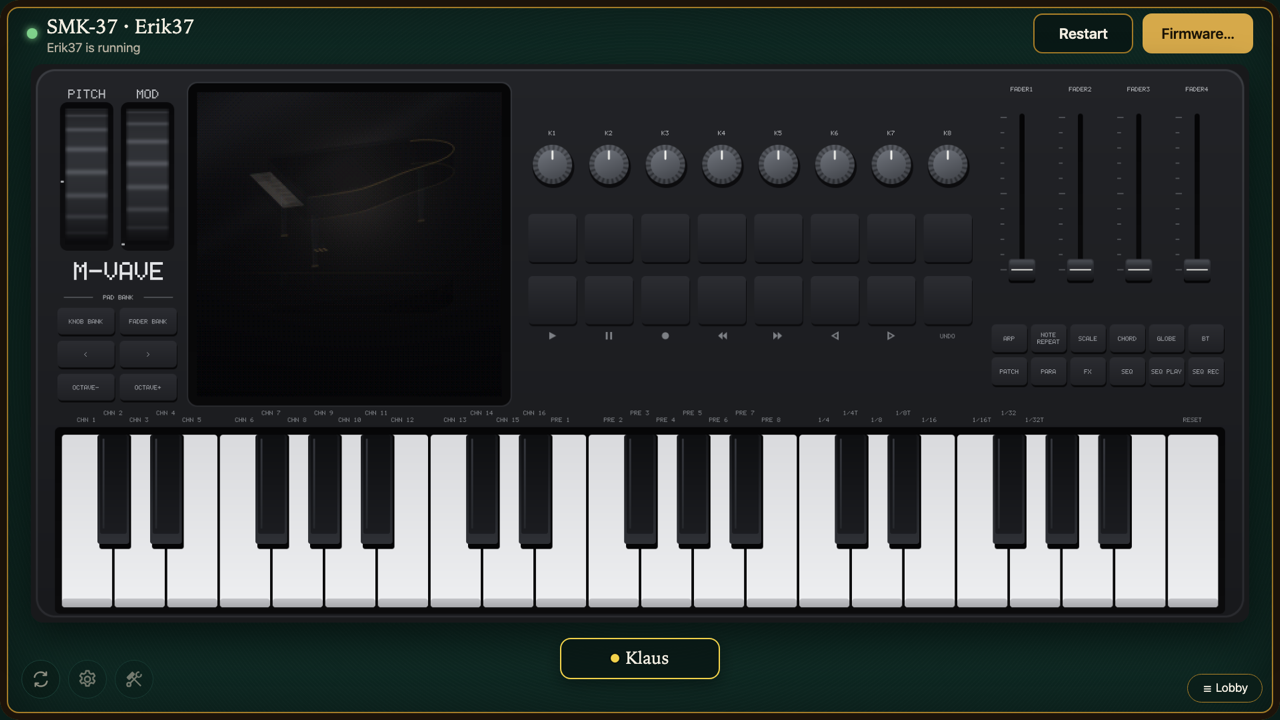
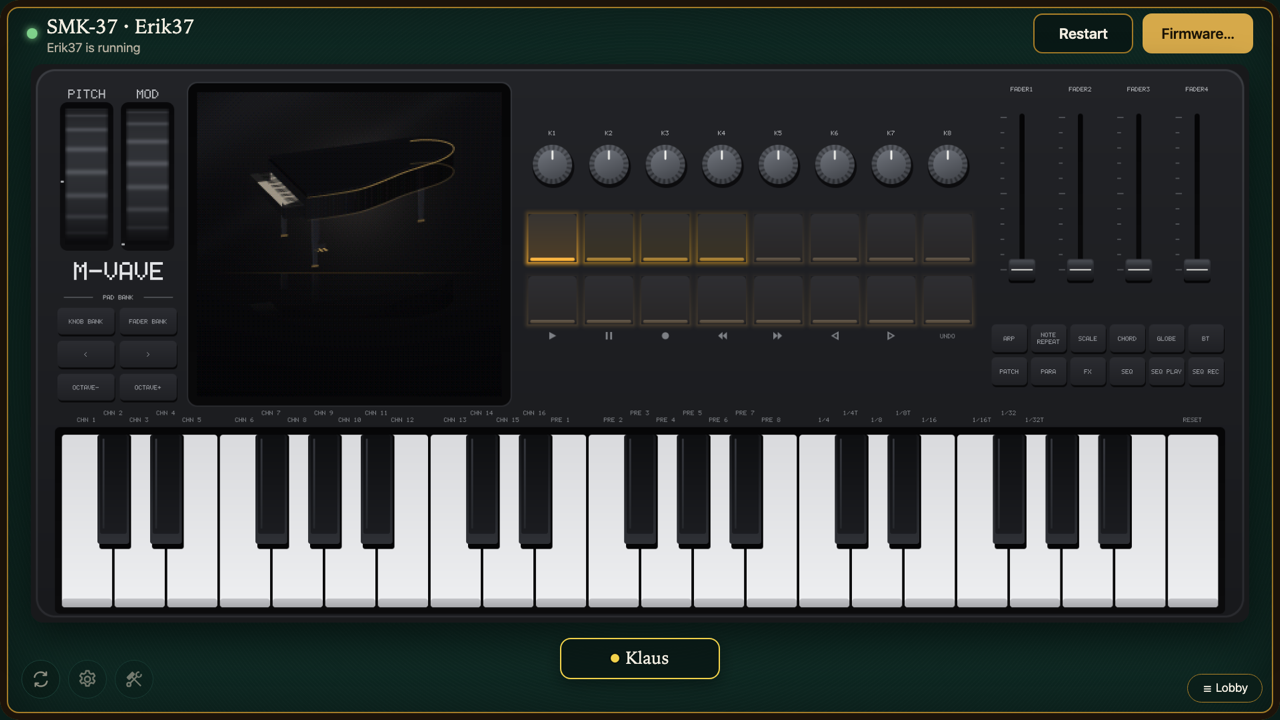
Firmware window: the device tabs switch the board at once, framed green (#2)
The FM-1 and SMK-37 tabs in the board's firmware window switch the board at once, as the phone's buttons do, framed in
the platform's green (E-011, game version 2026.11.12.6). README: the SMK-37 and the phone in pictures, and a link to
games.skylar.technology.

Claude-Session: https://claude.ai/code/session_01Ew5DovcRB7XVinPwRQDqJa

Changed region(s): [[0.4062, 0.3056, 0.75, 0.3972], [0.4062, 0.4278, 0.75, 0.4583], [0.1875, 0.2444, 0.25, 0.275]]

diff --git a/games/fm1-synth/board.js b/games/fm1-synth/board.js
@@ -185,9 +185,6 @@ export function mount(root, ctx) {
     if (device !== (pickerDevice ?? view?.device ?? "fm1")) return; // another tab was tapped meanwhile
     const here = device === view?.device;
     $(".fs-sheet-title").textContent = `Firmwares for the ${deviceName(device)} (${catalog.firmwares.length})`;
-    $(".fs-sheet-sub").textContent = here
-      ? "Tap one to play it. It is downloaded from its author's site."
-      : `Tap one to switch the board to the ${deviceName(device)} and play it. It is downloaded from its author's site.`;
     $(".fs-list").innerHTML = catalog.firmwares
       .map((f) => `<button type="button" class="fs-card ${here && view?.firmware === f.id ? "on" : ""}" data-id="${esc(f.id)}">
         <div class="fs-card-head"><b>${esc(f.name)}</b><span class="muted">${esc(f.version ?? "")}</span></div>
@@ -215,12 +212,18 @@ export function mount(root, ctx) {
   picker.addEventListener("click", (e) => {
     if (e.target === picker) picker.hidden = true;
   });
+  // A tab switches the board to that device at once, on its first firmware, as the phone's buttons do (E-011); the
+  // window stays open on that device's list, to pick another.
   picker.querySelector(".fs-tabs").addEventListener("click", (e) => {
     const tab = e.target.closest(".fs-tab");
-    if (!tab || tab.dataset.device === pickerDevice) return;
-    pickerDevice = tab.dataset.device;
-    $(".fs-list").scrollTop = 0;
-    renderPicker();
+    if (!tab) return;
+    const device = tab.dataset.device;
+    if (device !== pickerDevice) {
+      pickerDevice = device;
+      $(".fs-list").scrollTop = 0;
+      renderPicker();
+    }
+    setDevice(device);
   });
   $(".fs-list").addEventListener("click", async (e) => {
     const card = e.target.closest(".fs-card");
@@ -287,7 +290,14 @@ export function mount(root, ctx) {
           if (f) ctx.act(playerSeat(), "firmware", { id: f.id, name: f.name, device: c.device });
           return;
         }
-        if (picker.hidden === false) renderPicker();
+        if (picker.hidden === false) {
+          // the window shows the device the board has, also when the phone switched it meanwhile
+          if (pickerDevice !== view.device) {
+            pickerDevice = view.device;
+            $(".fs-list").scrollTop = 0;
+          }
+          renderPicker();
+        }
         boot();
       });
     },

diff --git a/games/fm1-synth/board.css b/games/fm1-synth/board.css
@@ -44,10 +44,10 @@
 .fs-sheet-sub { font-size: 20px; margin-top: 4px; }
 .fs-sheet-head > div:first-child { flex: 1; min-width: 0; }
 /* FM-1 | SMK-37: which device's firmwares the picker lists */
-.fs-tabs { display: flex; flex: none; border-radius: 14px; overflow: hidden; border: 2px solid var(--brass-deep, #8a6216); }
+.fs-tabs { display: flex; flex: none; border-radius: 14px; overflow: hidden; border: 2px solid var(--jade, #5fbf8f); }
 .fs-tab { min-height: 60px; min-width: 150px; padding: 0 24px; font: 600 22px system-ui, sans-serif; color: var(--ink);
   background: rgba(8, 22, 19, 0.82); border: 0; cursor: pointer; touch-action: manipulation; }
-.fs-tab + .fs-tab { border-left: 2px solid var(--brass-deep, #8a6216); }
+.fs-tab + .fs-tab { border-left: 2px solid var(--jade, #5fbf8f); }
 .fs-tab[aria-selected="true"] { background: var(--brass, #c8962f); color: #1b1407; }
 .fs-list { flex: 1; overflow-y: auto; overscroll-behavior: contain; touch-action: pan-y; padding: 4px 30px 30px;
   display: grid; grid-template-columns: repeat(4, 1fr); gap: 16px; align-content: start; }

diff --git a/scripts/e2e/fm1_synth.py b/scripts/e2e/fm1_synth.py
@@ -7,7 +7,7 @@ Checks on the way:
   - the board boots the FM-1's first firmware (downloaded from its author's site, as on a table) and says it runs, on
     the board and on the phone; the panel is drawn; a touch on a key lights it;
   - the phone layout rules of games-service (D-065);
-  - the firmware window lists both devices; picking from the SMK-37 tab switches the board to the SMK-37 (E-006);
+  - the firmware window's SMK-37 tab switches the board to the SMK-37, on its first firmware (E-006, E-011);
   - the phone switches the device back; facing north turns the bar, the panel and the seat plate in place (E-007,
     E-008) without moving them;
   - Finish ends the game with a summary naming what was played.
@@ -76,7 +76,7 @@ def main():
         with sync_playwright() as p:
             # The table's kiosk plays sound without a tap first; so does this browser.
             browser = p.chromium.launch(args=["--autoplay-policy=no-user-gesture-required"])
-            board = browser.new_page(viewport={"width": 1920, "height": 1080})
+            board = browser.new_context(viewport={"width": 1920, "height": 1080}, has_touch=True).new_page()
             watch(board, "board")
             board.goto(BASE + "/board/")
             board.wait_for_selector("button.tile")
@@ -110,16 +110,19 @@ def main():
             touch(board, 0.30, 0.91, 11, "pointerup")
             assert held != before, "a touch on a key changed nothing on the panel"
 
-            # The firmware window: both devices; a pick from the SMK-37 tab switches the board (E-006).
+            # The firmware window: its SMK-37 tab switches the board to the SMK-37 at once, on its first firmware, as
+            # the phone's buttons do (E-006, E-011). Tapped, as on the table's touch screen.
             board.click(".fs-pick")
             board.wait_for_selector(".fs-picker:not([hidden]) .fs-card")
             assert board.locator(".fs-tab").all_inner_texts() == ["FM-1", "SMK-37"]
             assert "FM-1" in board.inner_text(".fs-sheet-title")
-            board.click(".fs-tab[data-device=smk37]")
+            board.tap(".fs-tab[data-device=smk37]")
             wait(lambda: "SMK-37" in board.inner_text(".fs-sheet-title"), 10, "the SMK-37 list")
-            shot(board, "picker-smk37")
-            board.click(".fs-card[data-id=erik37]")
             wait_running(board, deck, "Erik37")
+            wait(lambda: board.locator(".fs-card.on[data-id=erik37]").count(), 10, "Erik37 marked in the window")
+            assert board.locator(".fs-tab[data-device=smk37]").get_attribute("aria-selected") == "true"
+            shot(board, "picker-smk37")
+            board.click(".fs-close")
             assert "SMK-37" in board.inner_text(".fs-name")
             wait(lambda: board.evaluate("() => document.querySelector('.fs-panel').width") == 1920, 10, "the SMK-37 panel")
             shot(board, "board-smk37")

diff --git a/README.md b/README.md
@@ -11,10 +11,13 @@
 A pocket synthesizer as a game for [Game Table](https://github.com/klaushofrichter/games-service): the **M-VAVE FM-1**
 (or its 37-key sibling, the **SMK-37**), emulated in the table's board, with any of the community's firmwares on it.
 One player sits at the table and plays the synth on the board by touch; their phone picks firmwares and ends the
-session.
+session. More about Game Table, its tables and its other games: **[games.skylar.technology](https://games.skylar.technology)**.
 
 ![FM-1 Synth on a Game Table board: the FM-1's front panel running Felucca, a bar with Restart and Firmware… above it,
 the player's seat plate below](docs/media/game-table-fm1.png)
+
+![The same board with the SMK-37: pitch and mod wheels, the screen, knobs, pads, faders and 37 keys, running the grand
+piano Erik37](docs/media/game-table-smk37.png)
 
 The emulator is **[fm1-emu](https://github.com/joakimeriksson/fm1-emu) by Joakim Eriksson** and its contributors: it
 emulates the FM-1's CPU, screen, keys, knobs and audio so the firmwares run unchanged. This repository is a copy of it
@@ -25,22 +28,27 @@ author's site when it is picked, the same package one would install on a real FM
 
 ## The game
 
+<img src="docs/media/game-table-deck.png" width="300" align="right" alt="The player's phone during the game: the
+device and the firmware that runs, buttons for the FM-1 and the SMK-37, and the list of firmwares">
+
 - **One player, at the table.** The lobby works as for every game: join with the QR code, mark ready, start. The player
   sits on South.
 - **The board** shows the device's front panel and the platform's own controls (seat plate, settings, Lobby). Keys,
   knobs, buttons, pads and faders are played by touch, with as many fingers as you like. There is no keyboard, MIDI or
   other device to connect.
-- **Firmware…** on the board opens a window with every firmware for the FM-1 and the SMK-37 (a tab each); picking one of
-  the other device's switches the board to it.
+- **Firmware…** on the board opens a window with every firmware of the device; its FM-1 and SMK-37 tabs switch the
+  board between the devices, as the phone's two buttons do.
 - **The board's settings** (the gear) have the device, the volume, the emulated clock and Restart. The game setting
   *Device to start with* picks the device before the start.
-- **The phone** shows what runs, the firmware list, the two devices and **Finish**, which ends the session with a
-  summary of what was played.
+- **The phone** (right) shows what runs, the firmware list, the two devices and **Finish**, which ends the session
+  with a summary of what was played.
 - **The turn button** faces the game north for a reader on the other side: the bar, the panel and the seat plate turn
   in place.
 - **Saves:** patches and settings a firmware saves with its own controls stay in the table's browser, per firmware.
 - **Remote players and watchers** see what is played, but the emulator and its sound run only on the table's own
   board.
+
+<br clear="right">
 
 The rules for players are [`games/fm1-synth/how-to-play.md`](games/fm1-synth/how-to-play.md); the decisions behind the
 game are in [`docs/decisions.md`](docs/decisions.md).

diff --git a/docs/decisions.md b/docs/decisions.md
@@ -6,7 +6,11 @@ can overrule. The emulator itself (crates/, web/) keeps its own history in the R
 
 Format: **E-nnn · date · decided by** — decision. *Why:* reason.
 
-Records are history: an older record is not edited when a newer one changes it.
+Records are history: an older record is not edited when a newer one changes it. Where that happened:
+
+| Earlier | Changed by | What changed |
+| --- | --- | --- |
+| E-006 | E-011 | The firmware window's device tabs switch the board at once |
 
 - **E-001 · 2026-11-12 · Klaus** — The emulated FM-1 and SMK-37 become one game for Game Table, in this repository's
   `games/` folder (an extra game repository, like extra-games): one player, sitting at the table on South, no AI
@@ -72,3 +76,8 @@ Records are history: an older record is not edited when a newer one changes it.
   (`assets/emu/build.json`, `scripts/emu-source.mjs`), and `tests/assets.test.ts` fails when the source, the copied web
   files or the catalogs have moved on. *Why:* rebuilding the wasm in CI and comparing bytes would fail on paths and
   toolchain versions a build embeds; a fingerprint is exact about the source and cheap.
+- **E-011 · 2026-11-12 · Klaus** — The FM-1 and SMK-37 tabs in the board's firmware window switch the board to that
+  device at once, on its first firmware, as the phone's two buttons do; the window stays open on that device's list to
+  pick another, and follows the device when the phone switches it. The tabs are framed in the platform's green
+  (`--jade`). Changes E-006, where a tab only showed the other device's list and the board switched when a firmware was
+  picked from it. *Why:* on a table the tabs looked broken next to the phone's buttons, which switch at once.

diff --git a/games/fm1-synth/how-to-play.md b/games/fm1-synth/how-to-play.md
@@ -24,8 +24,8 @@ community's firmwares on it.
 ## Switching the device
 
 The setting **Device to start with** is fixed once the game runs, but the board can switch any time: tap the
-**FM-1** or **SMK-37** tab in **Firmware…** and pick one of that device's firmwares, or choose the **Device** in the
-board's settings (it starts on that device's first firmware). Your phone has the same two buttons.
+**FM-1** or **SMK-37** tab in **Firmware…**, or choose the **Device** in the board's settings. The board starts that
+device on its first firmware; pick another from its list. Your phone has the same two buttons.
 
 ## Settings on the board
 
